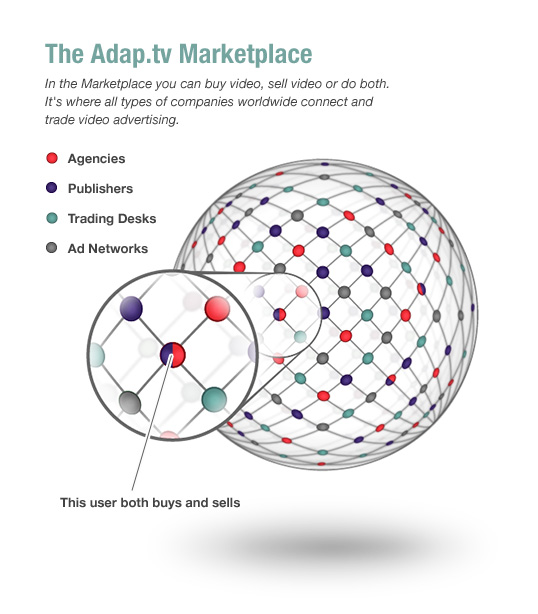
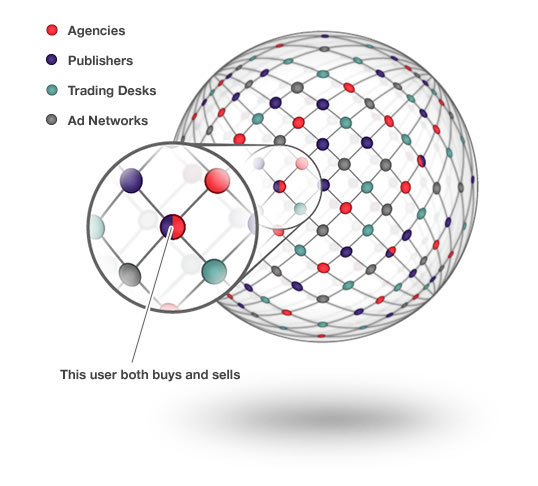
Restructured sub pages for new content. Other small changes.

Changed region(s): [[0.0892, 0.0309, 0.8922, 0.9259]]

diff --git a/styles/css/page.css b/styles/css/page.css
@@ -64,6 +64,11 @@ a.appcenter:visited, a.appcenter:link, a.appcenter:active {
 	color:#e80f18;
 	text-decoration:underline;
 }
+
+.regularBold{
+font-family:'HelveticaNeueW01-75Bold', helvetica, sans-serif; 
+}
+
 #Header {
 	position:fixed;
 	background:url(../images/nav_repeat.gif) repeat-x #ffffff;
@@ -2050,6 +2055,68 @@ margin-top: 160px;
 				color: #1e73be;
 			}
 
+#heroStatement{
+padding:60px 64px 0 64px;
+}
 
+#heroStatement h1{
+font-family:'HelveticaNeueW01-67MdCn 692710', helvetica, sans-serif;
+	color:#4d4c4d;
+	font-size:27px;
+	line-height:56px;
+	margin-bottom:12px;
+}
 
+#heroStatement h2{
+	color:#ea2830;
+	font-size:20px;
+	line-height:23px;
+	margin-bottom:20px;
+}
 
+#heroStatement p {
+font-size:13px;
+}
+
+#heroStatement a {
+	font-family:'HelveticaNeueW01-75Bold', helvetica, sans-serif; 
+font-size:13px;
+color:#ea2830;
+text-decoration: none;
+}
+
+#heroStatement hr{
+height:1px;
+border: 0;
+background-color:#4b4c4b;
+margin: 40px 0 10px 0;
+}
+
+#heroStatement h1 div.agencyicon {
+	
+	
+	width:87px;
+	height:45px;
+	background:url(../images/solutions/solutions_icons.png) 0px 0px no-repeat; 
+}
+#heroStatement h1 div.tradingdeskicon {
+	
+	
+	width:60px;
+	height:59px;
+	background:url(../images/solutions/solutions_icons.png) 0px -112px no-repeat; 
+}
+#heroStatement h1 div.publishersicon {
+	
+	
+	width:87px;
+	height:52px;
+	background:url(../images/solutions/solutions_icons.png) 0px -51px no-repeat; 
+}
+#Content h1 div.adnetworksicon {
+	
+	
+	width:89px;
+	height:61px;
+	background:url(../images/solutions/solutions_icons.png) 0px -179px no-repeat; 
+}

diff --git a/application/views/pages/solutions/overview.php b/application/views/pages/solutions/overview.php
@@ -1,24 +1,24 @@
 
 <div class="row">
     <div class="column gap">
-        <h4 class="icon">For Agencies<div class="agencyicon"></div></h4>
+        <h4 class="icon">For agencies<div class="agencyicon"></div></h4>
         <p>Say goodbye to audience fragmentation. Our solution lets you plan, buy, and report on video in a comprehensive way no matter the media or the device.</p>
         <a class="detailArrowButton" href="<?=site_url('solutions/agencies/')?>">Learn More<span class="rightend"></span><span class="redarrow"></span></a>
 	</div>    
     <div class="column">
-        <h4 class="icon">For Trading Desks<div class="tradingdeskicon"></div></h4>
+        <h4 class="icon">For trading desks<div class="tradingdeskicon"></div></h4>
         <p>Precision target your audience across multiple devices and sites.</p>
         <a class="detailArrowButton" href="<?=site_url('solutions/tradingdesks/')?>">Learn More<span class="rightend"></span><span class="redarrow"></span></a>
 	</div>
 </div>
 <div class="row bottomrow">
     <div class="column gap">
-        <h4 class="icon">For Publishers<div class="publishersicon"></div></h4>
+        <h4 class="icon">For publishers<div class="publishersicon"></div></h4>
         <p>Amplify your revenue and ignite demand for your inventory with a single solution that works across a global market.</p>
         <a class="detailArrowButton" href="<?=site_url('solutions/publishers/')?>">Learn More<span class="rightend"></span><span class="redarrow"></span></a>
 	</div>    
     <div class="column">
-        <h4 class="icon">For Ad Networks<div class="adnetworksicon"></div></h4>
+        <h4 class="icon">For ad networks<div class="adnetworksicon"></div></h4>
         <p>Create more efficient relationships with your partners to get the most out of your inventory.</p>
         <a class="detailArrowButton" href="<?=site_url('solutions/adnetworks/')?>">Learn More<span class="rightend"></span><span class="redarrow"></span></a>
 	</div>

diff --git a/application/views/pages/products/platform.php b/application/views/pages/products/platform.php
@@ -1,7 +1,11 @@
-
+<div id="heroStatement">
+    <h1>The Adap.tv Platform</h1>
+    <h2>TV and video are merging. A new media landscape is being <br/>created everyday, and it isn't waiting for you.</h2>
+    <p>Take control of your video advertising business with a programmatic solution. Our easy-to-use technology tools and services automate the process of buying and selling. Whether it's web, mobile, or connected TV – everything can be easily configured to work across all screens, with all technologies. Make adjustments in real time, anticipate, adapt. <a href="/solutions">Learn more ></a>  </p>
+    <hr>
+</div>
 <div class="productsGraphic">
 	<div class="graphicHeader">
-        <h4>The Adap.tv Platform</h4>
         <a id="consolebutton" class="detailButton selected" href="#">Console Detail<span class="rightend"></span><span class="buttonarrow"></span></a>
         <a id="techbutton" class="detailButton" href="#">Technology Detail<span class="rightend"></span><span class="buttonarrow"></span></a>
     </div>

diff --git a/application/views/pages/careers/overview.php b/application/views/pages/careers/overview.php
@@ -1,4 +1,9 @@
-
+<div id="heroStatement">
+    <h1>Careers</h1>
+    <!-- <h2>TV and video are merging. A new media landscape is being <br/>created everyday, and it isn't waiting for you.</h2> -->
+    <p>As Adap.tv continues to evolve as an industry leader, we depend on the insights and dedication of every single person who joins us, from engineers and developers, to business and administration professionals. We love new ways of thinking, new ideas, and will reward you for both. We're not about org charts. We're about doing great work with great people, having fun along the way, and creating positive transformation in the video advertising industry. <span class="regularBold">Visit our <a href="/solutions">openings ></span></a>  </p>
+    <hr>
+</div>
 <div class="contentpadding overview">
     <h5>Our core values drive our culture. This is what we believe:</h5>
     <div class="careersgraphic">

diff --git a/application/views/pages/solutions/tradingdesks.php b/application/views/pages/solutions/tradingdesks.php
@@ -1,6 +1,11 @@
 <div class="headerRow">
 	<h4 class="icon">Solutions for Trading Desks<div class="tradingdeskicon"></div></h4>
 </div>
+<br><br><br>
+<div id="heroStatement">
+    <p>There is no second guessing with our solution. With our pin-point targeting technology, you'll know exactly who you're buying and where. Eliminate waste, get better results, and adapt to changes like never before. <br><a href="/solutions/agencies/platform">Learn more ></a>  </p>
+    <hr>
+</div>
 <div class="graphic">
 	<img src="<?=site_url('/styles/images/solutions/trading_desk_graphic.jpg')?>" border="0" />
 </div>

diff --git a/application/views/pages/solutions/adnetworks.php b/application/views/pages/solutions/adnetworks.php
@@ -1,6 +1,11 @@
 <div class="headerRow">
 	<h4 class="icon">Solutions for Ad Networks<div class="adnetworksicon"></div></h4>
 </div>
+<br><br><br>
+<div id="heroStatement">
+    <p>Get ahead of the competition and increase the value of your inventory. Whether you need more inventory or more technology to run your business, Adap.tv puts the power to do both instantly at your fingertips. <br><a href="/solutions/agencies/platform">Learn more ></a>  </p>
+    <hr>
+</div>
 <div class="graphic">
 	<img src="<?=site_url('/styles/images/solutions/ad_networks_graphic.jpg')?>" border="0" />
 </div>

diff --git a/application/views/pages/solutions/agencies.php b/application/views/pages/solutions/agencies.php
@@ -1,5 +1,11 @@
+
 <div class="headerRow">
 	<h4 class="icon">Solutions for Agencies<div class="agencyicon"></div></h4>
+</div>
+<br><br><br>
+<div id="heroStatement">
+    <p>Our programmatic solution is a more effective way to reach your audience in a way that adapts precisely to your goals. Hit your numbers without getting hit by surprises. And do it all with a managed service that comes with in-depth audience insights and expertise. <br><a href="/solutions/agencies/platform">Learn more ></a>  </p>
+    <hr>
 </div>
 <div class="clear"></div>
 <div class="graphic">

diff --git a/application/views/pages/solutions/publishers.php b/application/views/pages/solutions/publishers.php
@@ -2,6 +2,11 @@
 <div class="headerRow">
 	<h4 class="icon">Solutions for Publishers<div class="publishersicon"></div></h4>
 </div>
+<br><br><br>
+<div id="heroStatement">
+    <p>Adap.tv is the most flexible way to maximize and control revenue with your current relationships while being exposed to new demand in our global video marketplace. <br><a href="/solutions/agencies/platform">Learn more ></a>  </p>
+    <hr>
+</div>
 <div class="graphic">
 	<img src="<?=site_url('/styles/images/solutions/publishers_graphic.jpg')?>" border="0" />
 </div>

diff --git a/application/views/pages/products/marketplace.php b/application/views/pages/products/marketplace.php
@@ -1,4 +1,9 @@
-
+<div id="heroStatement">
+    <h1>The Adap.tv Marketplace</h1>
+    <!-- <h2>TV and video are merging. A new media landscape is being <br/>created everyday, and it isn't waiting for you.</h2> -->
+    <p>In the Marketplace you can buy video, sell video or do both. It's where all types of companies worldwide connect and trade video advertising.</p>
+    <hr>
+</div>
 <div class="productsGraphic">
 	<img src="<?=site_url('styles/images/products/marketplace_graphic.jpg')?>" border="0" />
 </div>

diff --git a/application/views/pages/header.php b/application/views/pages/header.php
@@ -148,12 +148,12 @@
 							<h1>Adapt.TV</h1>
 						</a>
 						<ul id="TopNav">
-							<li class="divider">
+							<!-- <li class="divider">
 								<a class="OverlayLink" href="<?=site_url('privacy')?>">Privacy Policy</a>
 							</li>
 							<li>
 								<a class="OverlayLink" href="<?=site_url('optout')?>">Opt-out</a>
-							</li>
+							</li> -->
 						</ul>
 						<a id="LoginButton" target="_blank" href="https://my.adap.tv/osclient/">Login</a>
 						<?PHP $this->

diff --git a/application/views/pages/home.php b/application/views/pages/home.php
@@ -191,12 +191,12 @@
 							<h1>Adapt.TV</h1>
 						</a>
 						<ul id="TopNav">
-							<li class="divider">
+							<!-- <li class="divider">
 								<a class="OverlayLink" href="<?=site_url('privacy')?>">Privacy Policy</a>
 							</li>
 							<li>
 								<a class="OverlayLink" href="<?=site_url('optout')?>">Opt-out</a>
-							</li>
+							</li> -->
 						</ul>
 						<a id="LoginButton" target="_blank" href="https://my.adap.tv/osclient/">Login</a>
 						<?PHP $this->
